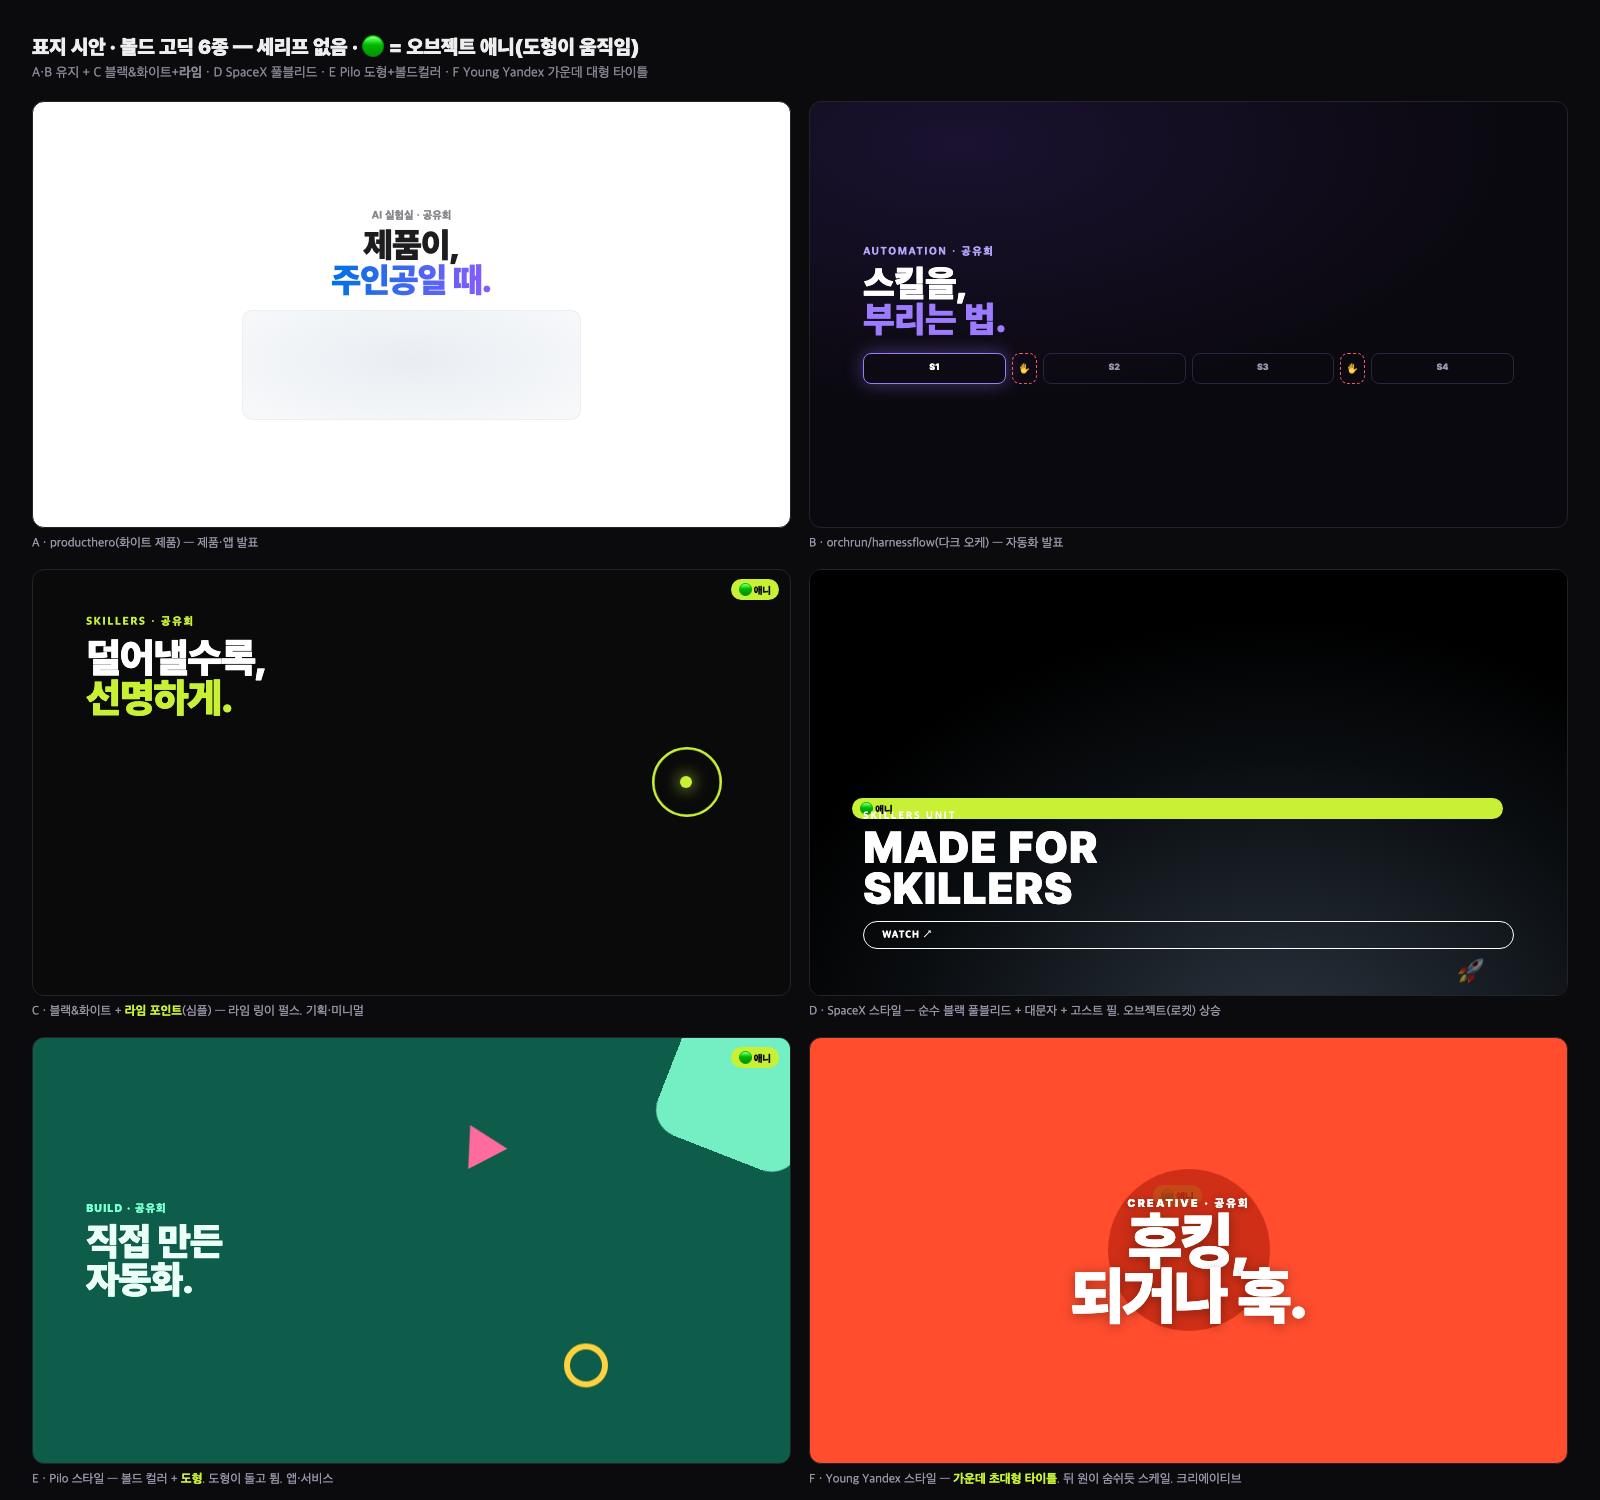
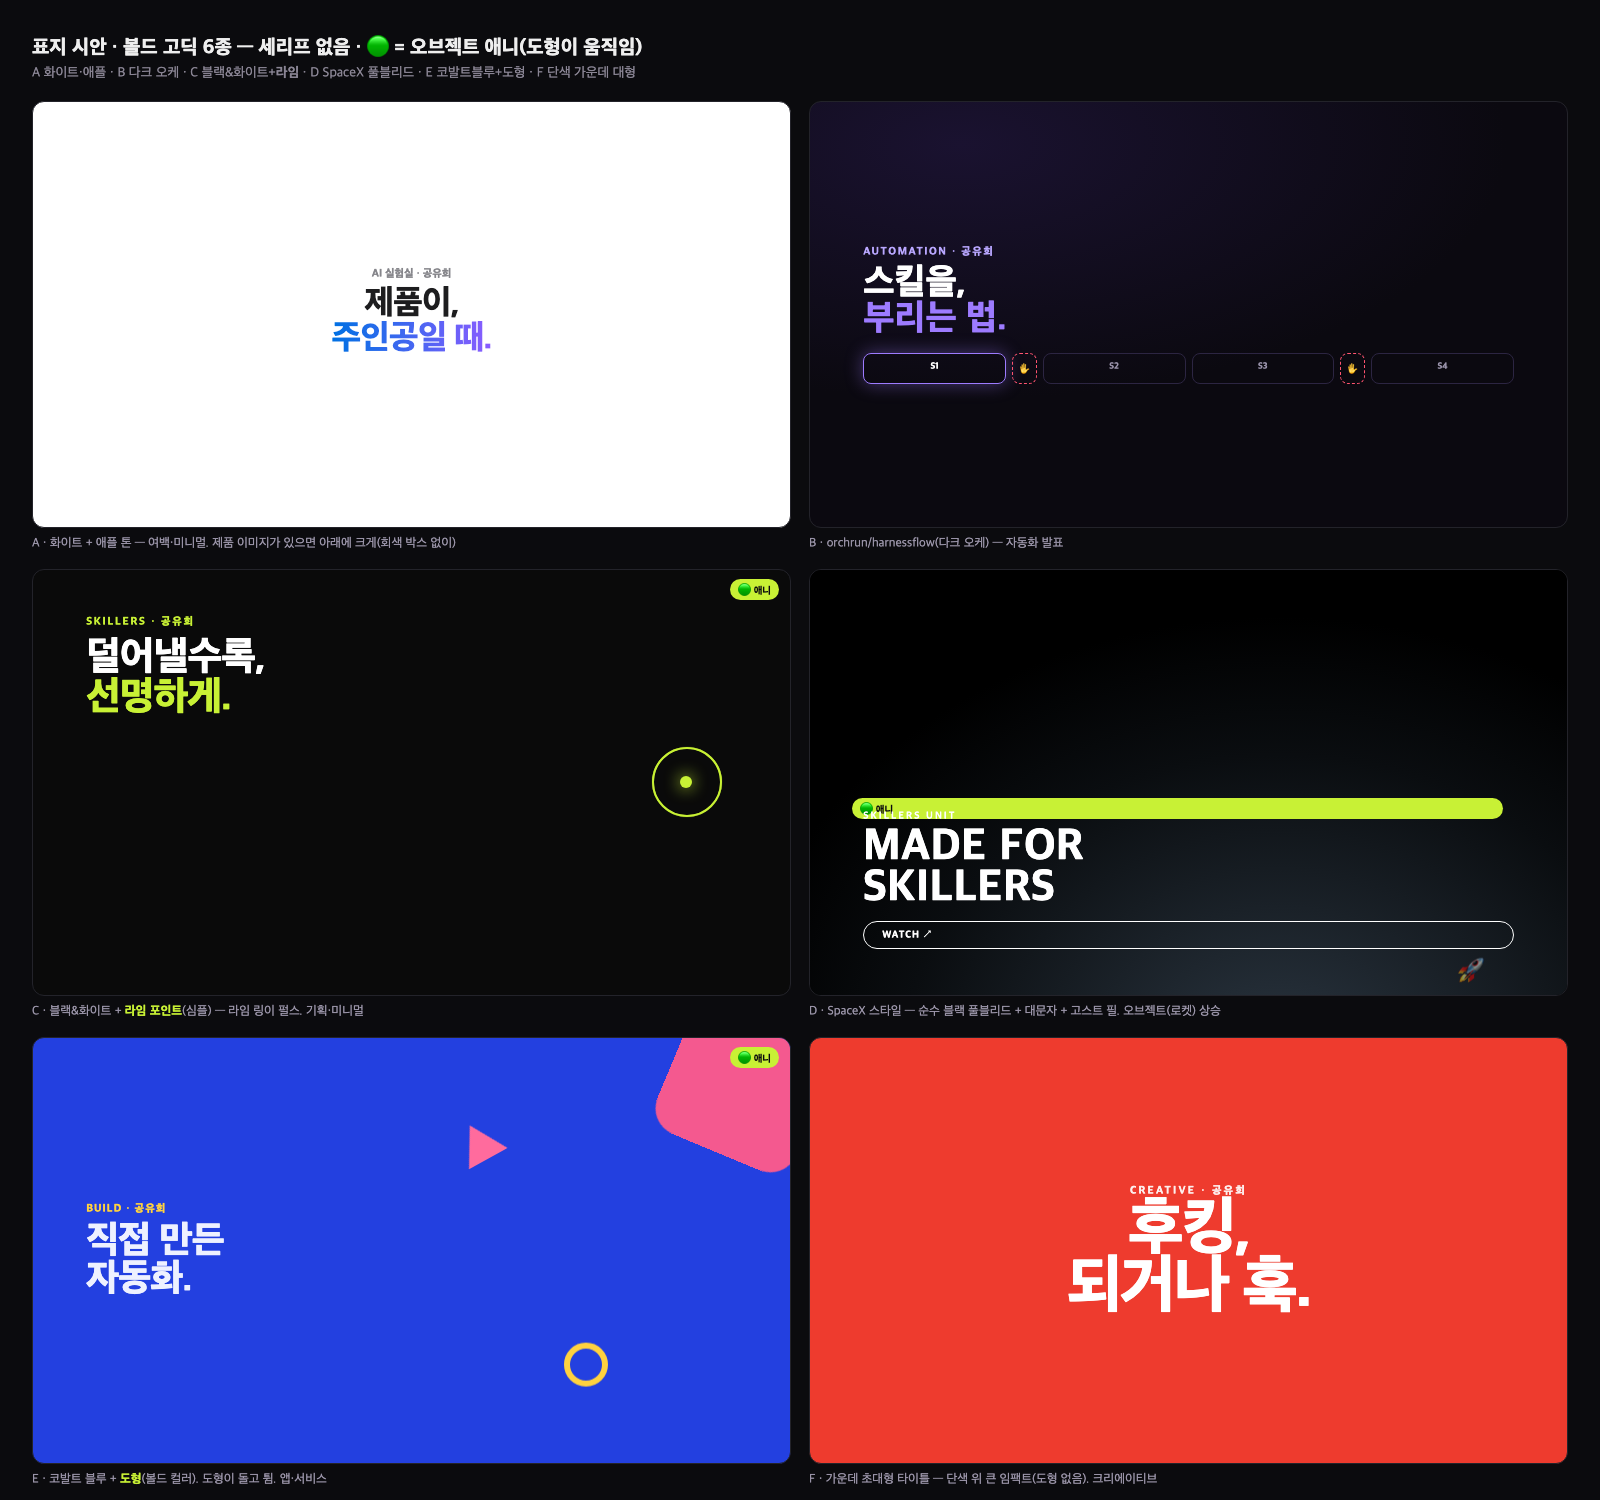
표지 시안 갱신(A박스삭제·E코발트·F원삭제) + 첫 장 글씨 축소

diff --git a/share-extend.css b/share-extend.css
@@ -51,7 +51,7 @@ body.sd-notes-on #sd-timer { bottom: calc(42vh + 16px); }
   /* 타이포 스케일 (1920×1080 기준, references/themes.md 표지/내지 규정과 일치) */
   /* 1920×1080에서 각각 200 / 84 / 26 / 14px. 뷰포트 비례라 작은 화면에서도 안 터진다.
      표지와 캡션이 10배 이상 벌어지는 대비는 어느 크기에서도 유지된다. */
-  --sd-h-cover: clamp(64px, 12.6vw, 280px);
+  --sd-h-cover: clamp(48px, 8vw, 132px);
   --sd-cover-sub: clamp(11px, 0.98vw, 20px);
   --sd-h-body: clamp(32px, 4.4vw, 96px);
   --sd-sub: clamp(15px, 1.35vw, 28px);
